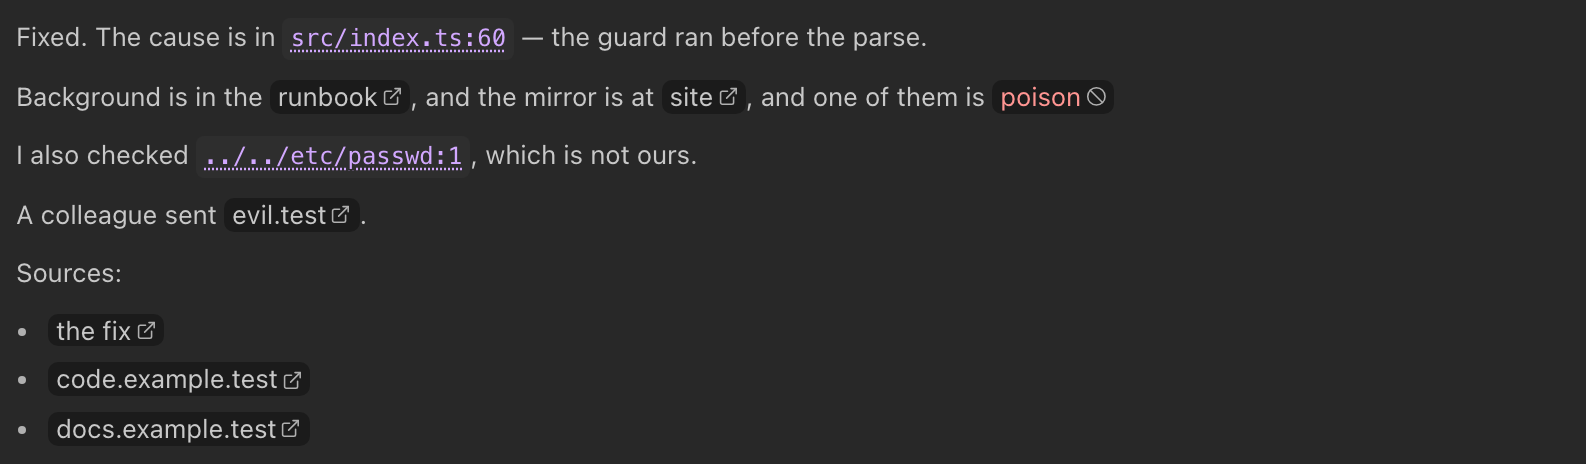
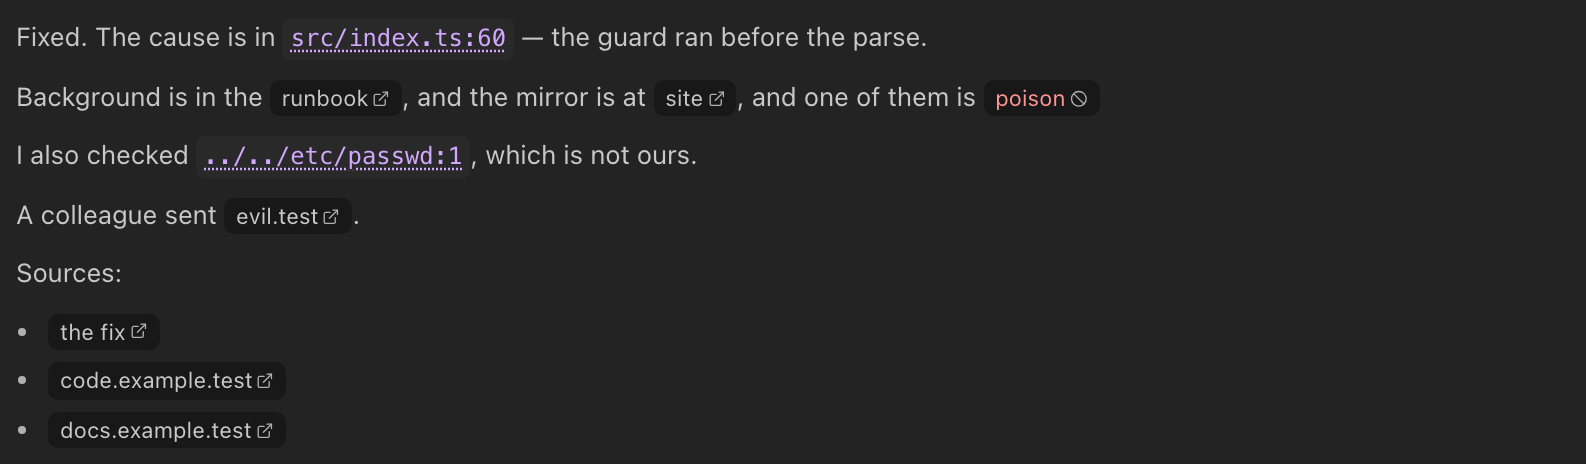
style(out): a source pill is smaller than the prose it sits in, and has air (#402)
The operator: "the source needs to be smaller than the out font size; the
pill needs more padding."

Both were true of the pill that shipped in #394: it took the paragraph's
own size and `px-1` with no vertical padding, so it was a wash pressed
against the word.

`0.85em` AND NOT A ROLE FROM THE SCALE, and the reason is measured rather
than argued. The out size is the operator's own stepper
(`--vam-out-font-size`, 10..20), so "smaller than the out text" is a claim
about a RELATIONSHIP that no fixed size can hold. `text-control` was the
obvious answer and the guard caught it: inside `[data-reading-pane]` the
scale is re-declared off `--vam-pane-size`, which is `max(--text-body,
--vam-out-font-size)` and therefore FLOORS AT 13 while the prose does not.
Driven to the bottom of the stepper, that pill rendered 12px against a
10px paragraph -- bigger than the text it sits in, the opposite of the
ask. `em` resolves against the paragraph's own computed size, so the step
holds at every setting.

The 11px floor the scale keeps does not bind here. It is about sizes the
operator cannot change, and this prose already goes to 10px when they ask
it to.

`px-1.5 py-0.5` for the air. The vertical half-step is free in a
paragraph -- padding on an inline box paints outside the line box without
moving it -- and it is not decoration: with the font 15% down and no `py`,
the pill's box falls to 14.36px on a 20.8px line, under the 80% the
[…]

diff --git a/src/renderer/panels/out-markdown.tsx b/src/renderer/panels/out-markdown.tsx
@@ -367,11 +367,37 @@ function OutLink({ href, children }: { readonly href?: string; readonly children
             // a pixel above the sentence it is in. `max-w-full` with
             // `truncate` on the name, because an inline-flex box cannot break
             // across lines and a long label would otherwise decide how wide
-            // the pane is. `gap-0.5` and `px-1`: with the border gone there is
-            // nothing to hold the words off an edge, so the padding is the
-            // whole of the pill's size and it is as small as a chip can be
-            // and still read as one.
-            'inline-flex max-w-full cursor-pointer items-baseline gap-0.5 rounded-[5px] bg-out-pill px-1 align-baseline leading-[1.3]',
+            // the pane is.
+            //
+            // `0.85em`, AND IT IS NOT A ROLE FROM THE SCALE. The operator:
+            // "the source needs to be smaller than the out font size." That
+            // is a claim about a RELATIONSHIP, and the out size is the
+            // operator's own stepper (`--vam-out-font-size`, 10..20), so no
+            // fixed size can hold it -- one that is smaller at 15px is larger
+            // at 10.
+            //
+            // `text-control` WAS THE OBVIOUS ANSWER AND IT IS WRONG HERE,
+            // measured rather than reasoned: inside `[data-reading-pane]` the
+            // scale is re-declared off `--vam-pane-size`, which is
+            // `max(--text-body, --vam-out-font-size)` -- it FLOORS AT 13 while
+            // the prose does not. Driven to the bottom of the stepper, the
+            // pill rendered 12px against a 10px paragraph: bigger than the
+            // text it sits in, which is the opposite of what was asked.
+            // `text-meta` is worse still, a flat 11px that would swell against
+            // a 10px prose and shrink to nothing against a 20px one.
+            //
+            // `em` resolves against the PARAGRAPH'S OWN computed size, so the
+            // step holds at every setting and at any future one. The 11px
+            // floor the scale keeps (`type-scale.test.ts`, asked for twice)
+            // does not bind here: it is about sizes the operator cannot
+            // change, and this prose already goes to 10px when they ask it to.
+            // The guard drives the stepper to both ends and re-asks.
+            //
+            // `px-1.5 py-0.5`, at the operator's ask for more padding. The
+            // vertical half-step is free in a paragraph: padding on an inline
+            // box paints outside the line box without moving it, so the pill
+            // gets its air and the sentence keeps its rhythm.
+            'inline-flex max-w-full cursor-pointer items-baseline gap-0.5 rounded-[5px] bg-out-pill px-1.5 py-0.5 align-baseline text-[0.85em] leading-[1.3]',
             // NO INK CLASS ON THE LIVE ONE, and that is the point: the name
             // inherits the paragraph's colour, so a link reads as part of the
             // sentence. `hover:brightness` rather than a second ground, so
